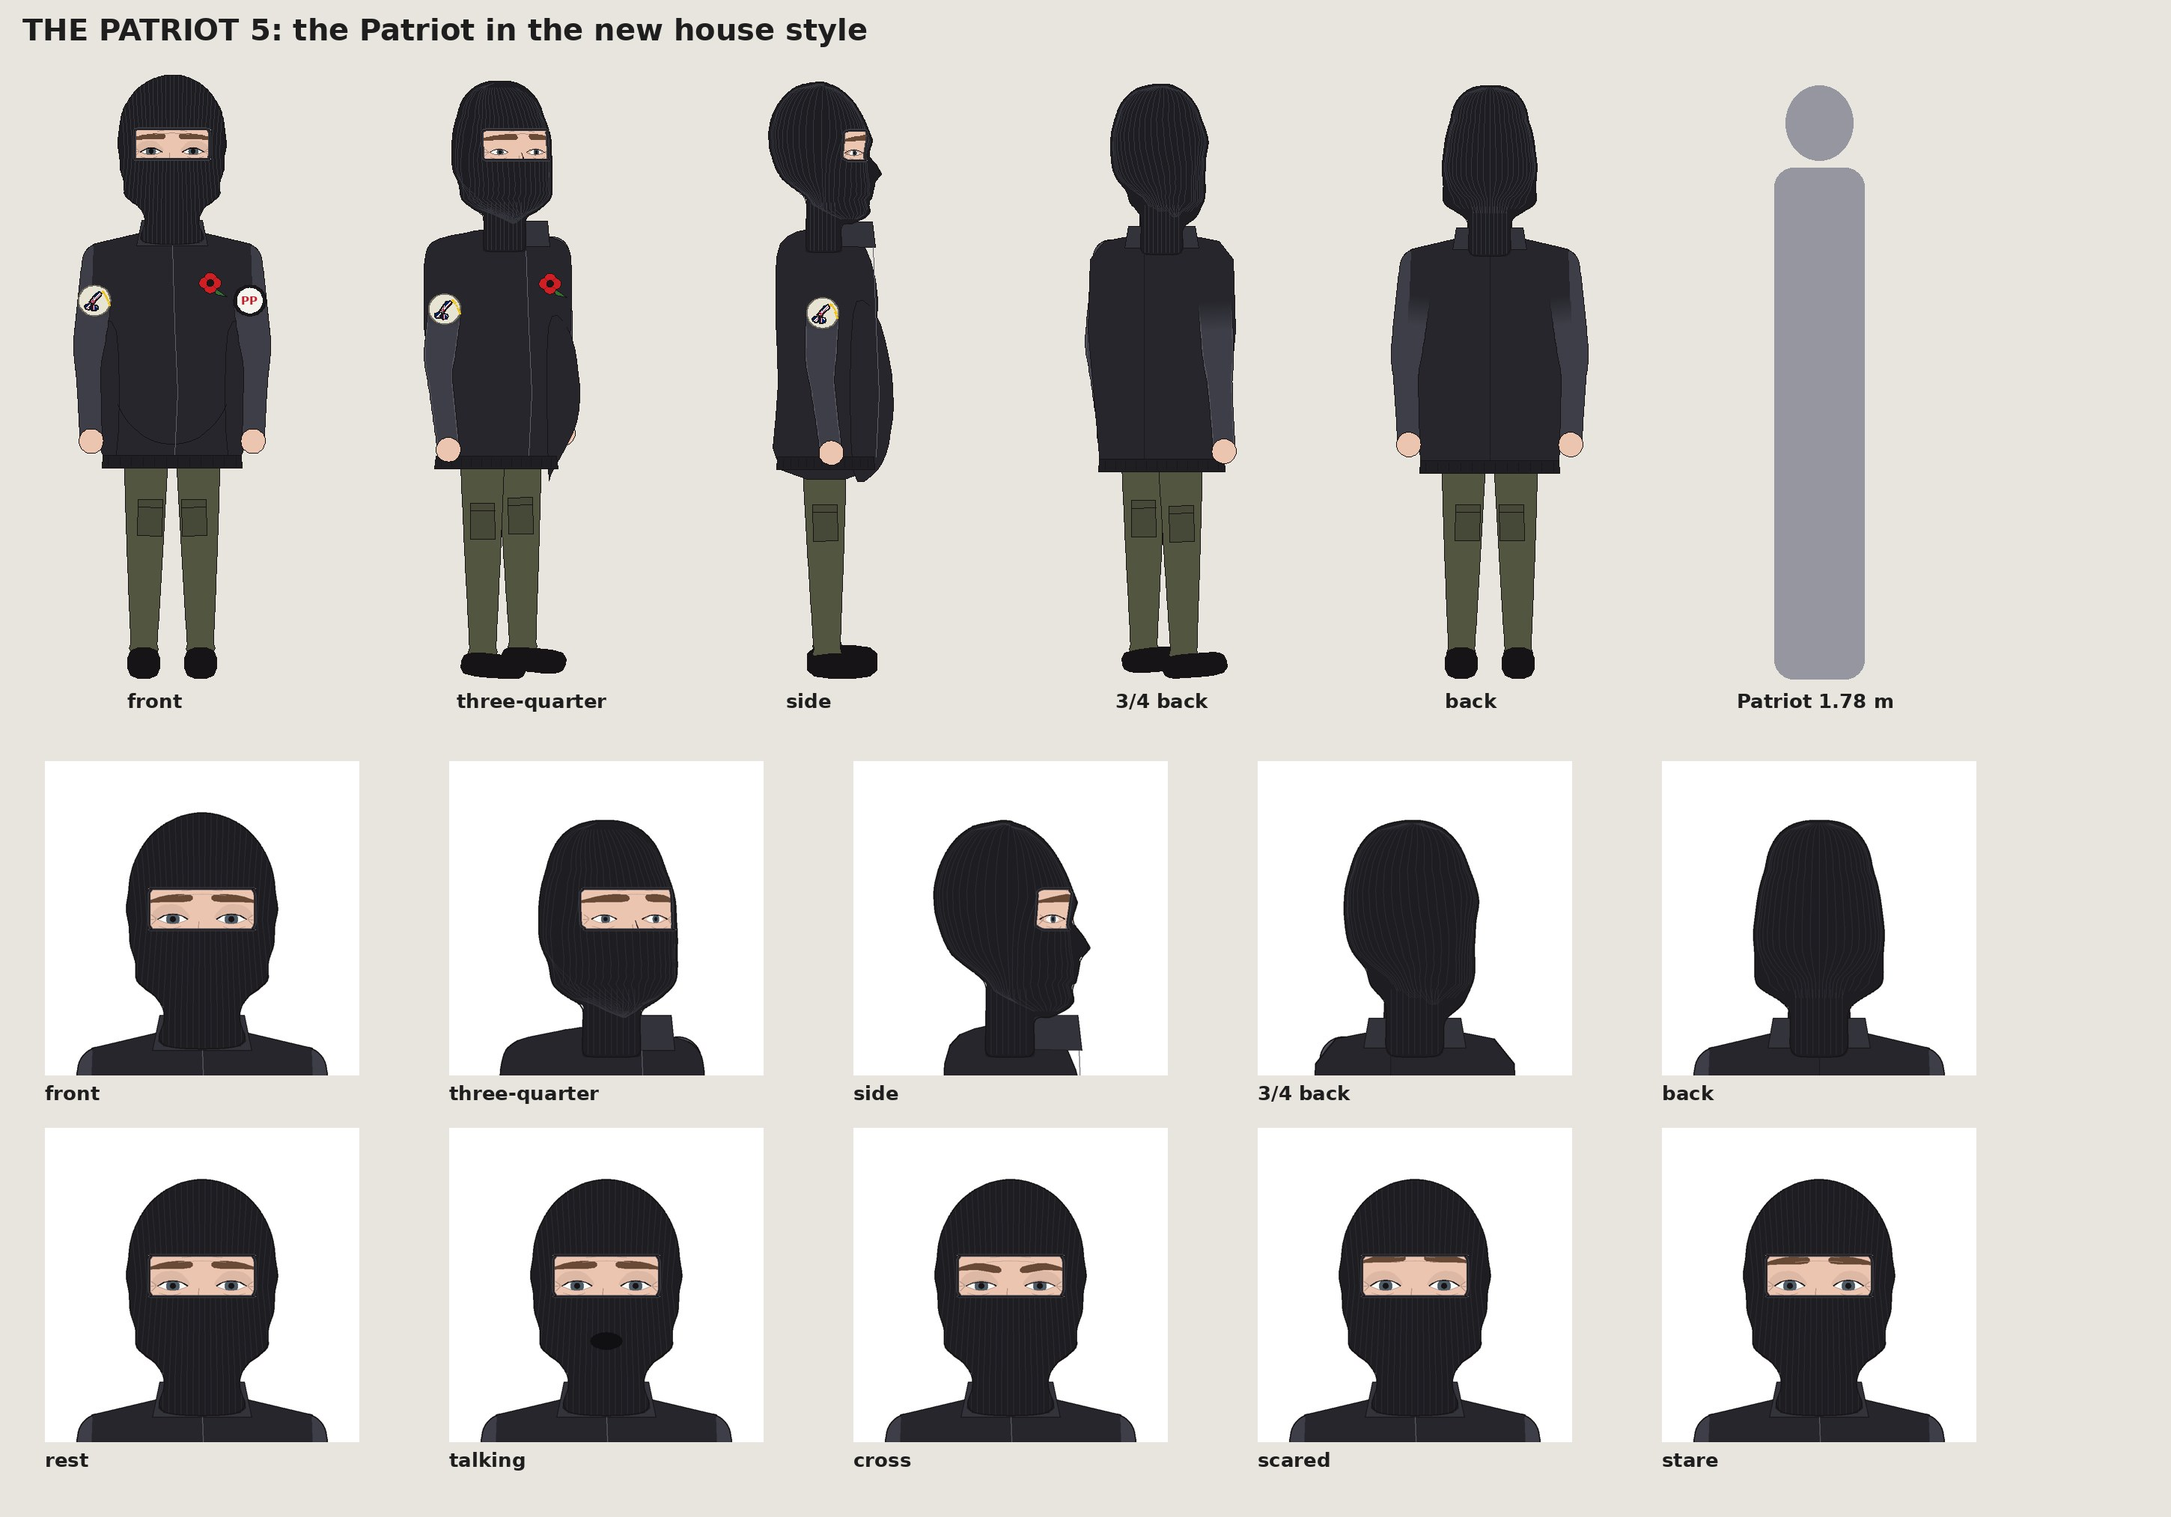
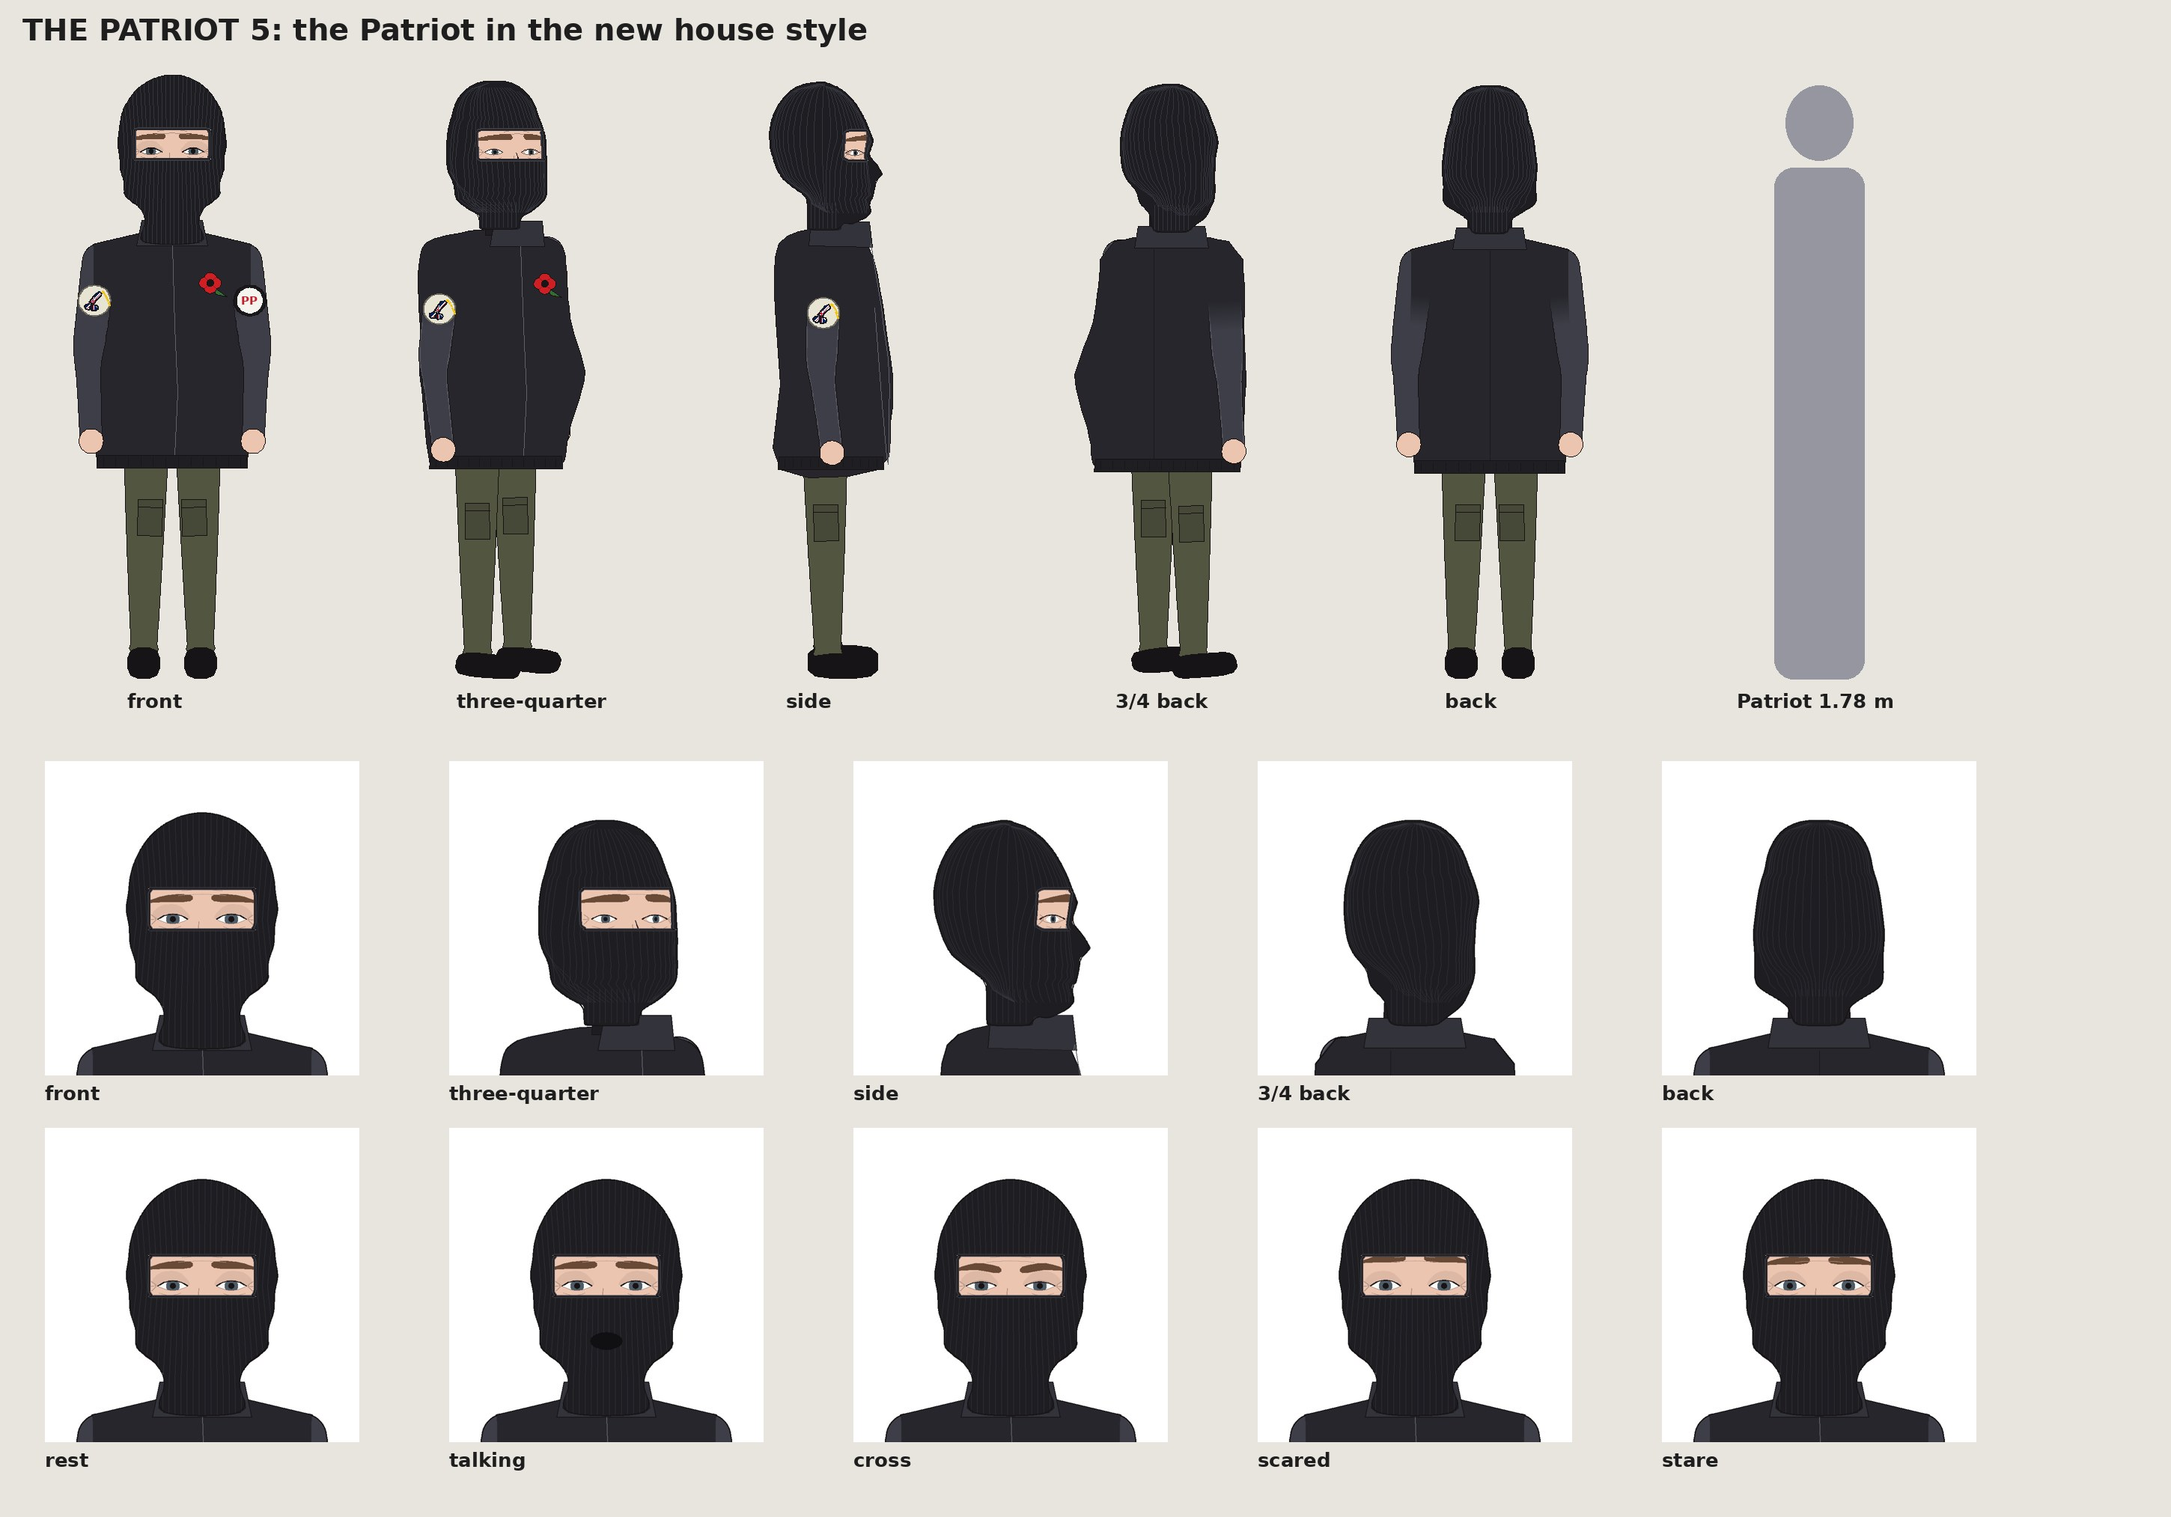
Patriot 5: Sam's sheet notes 1 and 3 fixed (stout build, collar round the knit neck, zip and hem fitted, no chin V); note 2 answered
Claude-Session: https://claude.ai/code/session_01J1JB7XCcqv7vGytWyb2oNY

diff --git a/source/patriots3_cast.py b/source/patriots3_cast.py
@@ -368,7 +368,13 @@ def patriot_jacket(p, view, sp):
     jd = B.dk(JACKET, 0.7)
     if view in ('front', 'three', 'side'):
         o = {'front': 0.0, 'three': sp.get('v_at', 0.32 * sw), 'side': 0.62 * sw}[view]
-        if view != 'front':                            # the belly pushes the front of the jacket out
+        if sp.get('figure') == 'stout' and view == 'side':   # Patriots 5: the zip on the stout body's own front edge
+            VC = V                                             # (the old 0.62 left it hanging in the air)
+            edge = VC.torso_outline(sp, 'side', bottom)
+            o = max(x for x, y in edge if 0 <= y <= 60) - 8
+        if sp.get('figure') == 'stout':               # Patriots 5: the body's own outline carries the belly
+            pass
+        elif view != 'front':                            # the belly pushes the front of the jacket out
             if view == 'three':
                 pts = [(sw * 0.84, 200), (sw * 0.98, 300), (sw * 0.96, 400), (sw * 0.78 * B.HEM, bottom), (sw * 0.6, bottom),
                        (sw * 0.6, 200)]
@@ -393,7 +399,10 @@ def patriot_jacket(p, view, sp):
             w = 64 if view == 'front' else 56
             p.poly([(o - w, -24), (o + w * (1 if view == 'front' else 0.8), -24), (o + w * (1.18 if view == 'front' else 0.9), 30),
                     (o - w * 1.18, 30)], B.lt(JACKET, 1.35), INK, 2.4)
-        p.line([(o, 30), (o + 6, 200), (o + 12, 340), (o + 6, bottom - 26)], (96, 96, 104), 2.2)
+        zp = [(o, 30), (o + 6, 200), (o + 12, 340), (o + 6, bottom - 26)]
+        if sp.get('figure') == 'stout' and view == 'side':   # the zip round the belly, just in from its edge
+            zp = [(max(x for x, y_ in edge if abs(y_ - y) < 40) - 8, y) for y in (30, 120, 200, 300, 400, bottom - 26)]
+        p.line(curve(zp, 3) if len(zp) > 4 else zp, (96, 96, 104), 2.2)
         if view in ('front', 'three'):                 # the poppy on his left breast (Sam, 27 Oct: yes)
             poppy(p, o + sw * (0.48 if view == 'front' else 0.3), 108)   # 24 units: readable on a phone in shot 9
     else:                                               # from behind: the collar and the back seam
@@ -402,6 +411,12 @@ def patriot_jacket(p, view, sp):
         p.poly([(-70, -20), (70, -20), (78, 26), (-78, 26)], B.lt(JACKET, 1.35), INK, 2.4)
         p.line([(o, 30), (o, bottom - 26)], jd, 2.0)
     l, r = _box(view, sp, bottom - 13)
+    if sp.get('figure') == 'stout':                    # Patriots 5: the hem as wide as the stout body's own outline
+        xs = [x0 + (x1 - x0) * (bottom - 13 - y0) / (y1 - y0) for (x0, y0), (x1, y1) in
+              zip(*(lambda q: (q, q[1:] + q[:1]))(V.torso_outline(sp, view, bottom)))
+              if (y0 - bottom + 13) * (y1 - bottom + 13) <= 0 and y0 != y1]
+        if xs:
+            l, r = min(xs), max(xs)
     p.poly([(l + 2, bottom - 26), (r - 2, bottom - 26), (r, bottom), (l, bottom)], B.dk(JACKET, 0.8), INK, 2.0)
     for x in np.linspace(l + 14, r - 14, 12):          # the ribbed hem
         p.line([(x, bottom - 22), (x, bottom - 4)], (24, 24, 28), 1.2)

diff --git a/source/views_c.py b/source/views_c.py
@@ -471,6 +471,9 @@ def _built_outline(sp, view, bottom, o, fig):
             pts = [(-34, -8), (-d * 0.88, 22), (-d * 0.93, 120), (-d * 0.84, 275), (-d * 1.1, 400), (-d * 1.04, bottom),
                    (d * 0.96, bottom), (d * 0.94, 340), (d * 0.9, 260), (d * 1.26, 165), (d * 1.04, 80), (d * 0.86, 30),
                    (30, -6)]
+        elif fig == 'stout':                      # Patriots 5: the belly out in front, round under the chest
+            pts = [(-34, -8), (-d * 0.96, 22), (-d * 1.06, 130), (-d * 0.94, 320), (-d * 0.94, bottom), (d * 1.12, bottom),
+                   (d * 1.38, 400), (d * 1.42, 300), (d * 1.26, 190), (d * 1.16, 120), (d * 0.92, 30), (30, -6)]
         else:
             pts = [(-34, -8), (-d * 0.96, 22), (-d * 1.06, 130), (-d * 0.92, 320), (-d * 0.92, bottom), (d * 0.94, bottom),
                    (d * 0.94, 300), (d * 1.18, 150), (d * 0.92, 30), (30, -6)]
@@ -571,15 +574,15 @@ def _seat_into_thighs(sp, out, view, bottom):
             x = x + ((te[0] if x < mid else te[1]) - x) * f
         res.append((x, y))
     return res
-TURNED_SIDE = {'female': 0.7, 'straight': 0.7}
+TURNED_SIDE = {'female': 0.7, 'straight': 0.7, 'stout': 0.8}
 # Open Wounds chat 7 (the blind judge, Kemi three-quarter: "straight side-on body with no waist"; measured: her
 # turned front edge ran straight in from the shoulder, 124 to 90, under the near arm, which covers 89-116 there:
 # the side shape's bust is barely deeper than the house man's chest, d 1.20 against 1.18, so turned it never showed).
 # Turned, a woman's bust stands out in front of the near arm (her walking photo, a little turned: the white top's
 # curve ahead of her arm): a bump on the front edge only, at the bust's height. Units: the body's.
-TURNED_BUST = {'female': 27.0, 'straight': 30.0}
-TURNED_BUST_Y = {'female': 145.0, 'straight': 170.0}   # at each build's own bust (the side shapes': 'female' 140,
-TURNED_BUST_SD = {'female': 52.0, 'straight': 42.0}    # 'straight' 165); at 170 May's waist already narrowed behind the arm.
+TURNED_BUST = {'female': 27.0, 'straight': 30.0, 'stout': 0.0}
+TURNED_BUST_Y = {'female': 145.0, 'straight': 170.0, 'stout': 170.0}   # at each build's own bust (the side shapes': 'female' 140,
+TURNED_BUST_SD = {'female': 52.0, 'straight': 42.0, 'stout': 42.0}    # 'straight' 165); at 170 May's waist already narrowed behind the arm.
 # Chat 9 (handover's known fault: May turned, the bump 28 at 140 over SD 42 read pointed, a cone): 'female' wider,
 # 27 over SD 52 at 145, so the front edge swells and eases back into the waist. 22 over SD 62 (softer still) lost her
 # to the blind judges (three-quarter woman 2: "neutral"); 27/52 brought it back to 3 from all three (record v6b)    # how much of the side's shape a three-quarter edge carries

diff --git a/source/facehouse_d.py b/source/facehouse_d.py
@@ -141,8 +141,8 @@ def balaclava_turned(img, p, f, L, sp, view):
     # the crown rounded and the neck carried down into the collar (the torso's neck is the knit's colour: neck_c)
     n0, n1 = TH.NECK.get(view, (-32, 32))
     yb = f.top + f.v1 * H
-    outer.append([(f.hx + n0 - 6, yb - 0.25 * H), (f.hx + n1 + 6, yb - 0.25 * H), (f.hx + n1 + 8, yb + 0.3 * H),
-                  (f.hx + n0 - 8, yb + 0.3 * H)])
+    outer.append([(f.hx + n0 - 6, yb - 0.25 * H), (f.hx + n1 + 6, yb - 0.25 * H), (f.hx + n1 + 6, yb + 0.06 * H),
+                  (f.hx + n0 - 6, yb + 0.06 * H)])   # to the collar's top: the collar shows round it (Sam, 27 Nov)
     if view in ('three', 'side'):                                       # the knit over the nose: a bump, not a cut
         ny, ey, tip = L['nose_y'], L['eye_y'], f.prof.get('nose_tip', 0.2)
         outer.append([f.at(0.0, ey + 0.03, 0.0), f.at(0.0, (ey + ny) / 2, tip * 0.6), f.at(0.0, ny - 0.04, tip * 0.95),
@@ -160,7 +160,7 @@ def balaclava_turned(img, p, f, L, sp, view):
     ps = np.arange(-180, 180, 8.0)
 
     def ribs(pen):
-        vs = np.linspace(top_v, f.v1 + 0.02, 30)
+        vs = np.linspace(top_v, f.v1 - 0.1, 30)          # not the bottom rings: the meridians crowd there
         for psi in ps:
             seg = []
             for v in vs:
@@ -176,7 +176,7 @@ def balaclava_turned(img, p, f, L, sp, view):
             if len(seg) > 1:
                 pen.line(seg, BALA_RIB, 1.3)
         for x in np.arange(f.hx + n0 - 4, f.hx + n1 + 6, 0.045 * H):    # the neck's ribs, straight down
-            pen.line([(x, yb - 0.2 * H), (x, yb + 0.3 * H)], BALA_RIB, 1.3)
+            pen.line([(x, yb - 0.2 * H), (x, yb + 0.06 * H)], BALA_RIB, 1.3)
     base = p.pen if hasattr(p, 'pen') else p
     _knit(img, p, outer, slot, ribs, mouth, dilate=max(2, int(round(base.cam.S(0.022 * H)))),
           soften=max(2, int(round(base.cam.S(0.08 * H)))) if view in ('three_back', 'back') else 0)

diff --git a/source/body.py b/source/body.py
@@ -537,8 +537,12 @@ FIGS = {'man': ((110, 0.98), (190, 0.92), (300, 0.81), (420, 0.85)),
         # bust 0.87, the waist barely in (0.85, and low: at the elbow, 275), the hips the widest part (0.97, at the
         # hip joint), wider than the chest; a man's box is widest at the chest (1.04) and narrows to the hip (0.85);
         # 'female' pinches to 0.70 just under the bust (the hourglass Sam said is May's; Kemi's photo: 0.76 there).
-        'straight': ((100, 0.92), (200, 0.87), (275, 0.85), (470, 0.97))}
-FIG_HEM = {'female': 0.92, 'straight': 0.96}   # the hem's width over the shoulders (else HEM)
+        'straight': ((100, 0.92), (200, 0.87), (275, 0.85), (470, 0.97)),
+        # 'stout' (Patriots 5, 27 Nov; Sam's note: "strange vertical lines in the belly area": the Patriot's belly was
+        # Patriots 3's swell pieces drawn over a body they no longer fitted): a thick-set man's belly in the body's own
+        # outline, widest over the belly (300), the jacket's hem wide; the side view's belly out in front (views_c).
+        'stout': ((110, 0.99), (200, 1.0), (300, 1.06), (420, 1.0))}
+FIG_HEM = {'female': 0.92, 'straight': 0.96, 'stout': 0.94}   # the hem's width over the shoulders (else HEM)
 WOMEN_FIGS = ('female', 'straight', 'woman')   # the builds a woman is drawn on (castsheet's build check)
 
 

diff --git a/source/patriots5_cast.py b/source/patriots5_cast.py
@@ -26,7 +26,7 @@ import people_parts as PP                     # noqa: E402
 LINES = dict(hair='bald', outfit=('jumper', P3.JACKET), height=1.78, dome=-0.33, dome_wide=0.42, head=False,
              balaclava=True, eye_scale=1.2, liner=3.0)
 BODY = dict(sleeve=P3.SLEEVE, trousers=P3.COMBAT, shoe=(22, 20, 22), shoulders=168, bottom=500, patches=True,
-            belly=True, cargo=True, neck_c=F.BALA, neck_w=1.2, name='Patriot')
+            belly=True, cargo=True, neck_c=F.BALA, neck_w=1.2, figure='stout', name='Patriot')
 MOODS = {   # the house moods (the old sheet's rest, talking, cross, scared), in the house face's own keys
     'rest': dict(),
     'talking': dict(mouth='v:AI'),

diff --git a/notes/patriots5.md b/notes/patriots5.md
@@ -7,10 +7,11 @@
 
 ## Where things stand (the ONE handover, 15 lines at most: overwrite it at every stage switch; move the old one to notes/archive/patriots5-handovers.md)
 - **Rules that bite next:** 89 (critique before the cast sheet goes back), 30 (a repeat note: find why the first fix failed), 24 (the estimate, once the screenplay is in).
-- **Done (chat 1, 27 Nov):** the Patriot on the new house head (made by hand, no photos: references/faces/patriot/pick) under a new house balaclava (facehouse_d, every turn); his Patriots 3 clothes kept; kit test balaclava_every_view written and passing (it fails on the first sheet's missing three-quarter eye opening); sheet sent to Sam.
+- **Done (chat 1, 27 Nov):** the Patriot on the new house head (made by hand, no photos: references/faces/patriot/pick) under a new house balaclava (facehouse_d, every turn); his Patriots 3 clothes kept; kit test balaclava_every_view (fails on the first sheet's missing three-quarter eye opening); sheet v1 sent; notes 1 and 3 fixed, sheet v2 sent; note 2 answered.
+- **Check not built yet (note 1):** a check that finds stray ink lines inside a jacket's fill; needs a way to tell the drawing's own seams (zip, hem) from stray ones. Until then: every body looked at full size before a sheet goes.
 - **Spent against the estimate:** no estimate yet (Sam is still writing the screenplay).
 - **Next:** Sam's notes on the Patriot's sheet (Opus, medium); then, when Sam gives the screenplay and title, the plan (Opus, high): kitfilm.py begin patriots5.
-- **Needs Sam:** his look at the sheet (Y, or notes).
+- **Needs Sam:** Y or N on the shoulder-seam fix (note 2); his look at sheet v2.
 - **Read:** guides/job-packs.md Notes round (for sheet notes), Plan (when the screenplay comes).
 - **Lost / Added:** Lost: his old big cartoon eyes and boxy head. Added: house eyes and brows, a rounded knit hood fitted to the head, the knit moving over the mouth.
 - **Open rule requests:** none.
@@ -74,7 +75,9 @@ the handover check refuses a blank one.
 
 | # | shot | time | note | line | should have caught | critique saw it? | status |
 |---|------|------|------|------|--------------------|------------------|--------|
-| - |      |      | (none yet) |      |                    |                  |        |
+| 1 | cast sheet | front | "strange vertical lines in the belly area" | new | none: I looked at the sheet at phone size only, not each body at full size (Seeing like Sam, 1); no check sees pieces drawn for an old body landing inside a new one | no critique | fixed: Patriots 3's belly-swell edges no longer drawn; the shared body has a 'stout' build (belly in its own outline, side and three-quarter too) |
+| 2 | cast sheet | back, 3/4 back | "explain the greying out of the sleeves? You did that with Blair too" | seen before (Blair) | none: the shoulder join (limbs.py, the arm fading into the body near the shoulder) assumes the sleeve is the jacket's cloth; a grey sleeve on a black body fades as a smear | no critique | answered; fix waits for Sam's Y (a hard shoulder seam where the sleeve's colour differs from the body's) |
+| 3 | cast sheet | side, three-quarter | "Fix your notes": my named faults (collar a box beside the neck with a zip in the air; the chin's dark V) | new | none (I named them myself, unfixed) | no critique | fixed: the knit's neck stops at the collar so the collar wraps round it; zip and hem fitted to the stout body; ribs stop above the chin's bottom rings |
 
 Decisions made (kept so a long session or a new session never has to rediscover them):
 - The Patriot's face under the knit is made by hand (no photos: he is fictional), the average face pushed thick-set; only his eyes and brows show, in the house look (as May and Kemi).

diff --git a/notes/learn/plain-words/bad-6-auto-27nov.md b/notes/learn/plain-words/bad-6-auto-27nov.md
@@ -1,0 +1,13 @@
+# Saved example (auto, 27 Nov 20:59)
+Sam's reply: "Can you explain the greying out of the sleeves? You did that with Blair too.
+
+There are strange vertical lines in the belly area.  
+
+Fix your notes."
+
+## The message as sent
+
+I've saved the last log changes to GitHub, so nothing from this session is left unsaved.
+
+Done: the Patriot is redrawn and everything is saved.
+Next: your notes on his sheet.
